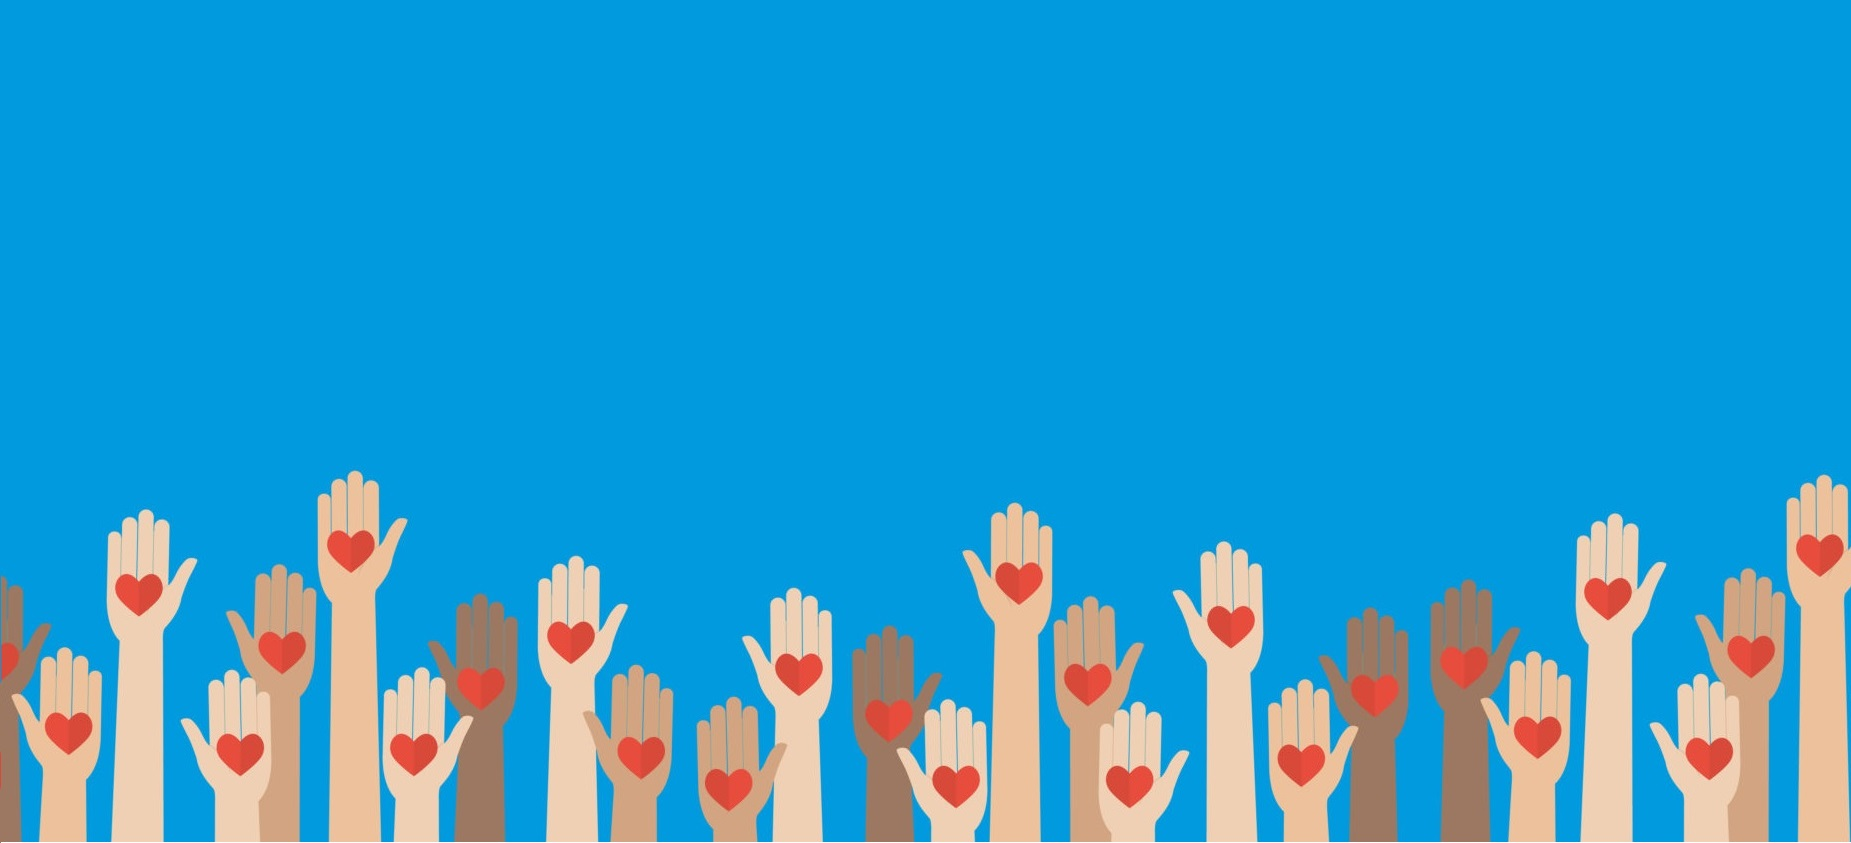
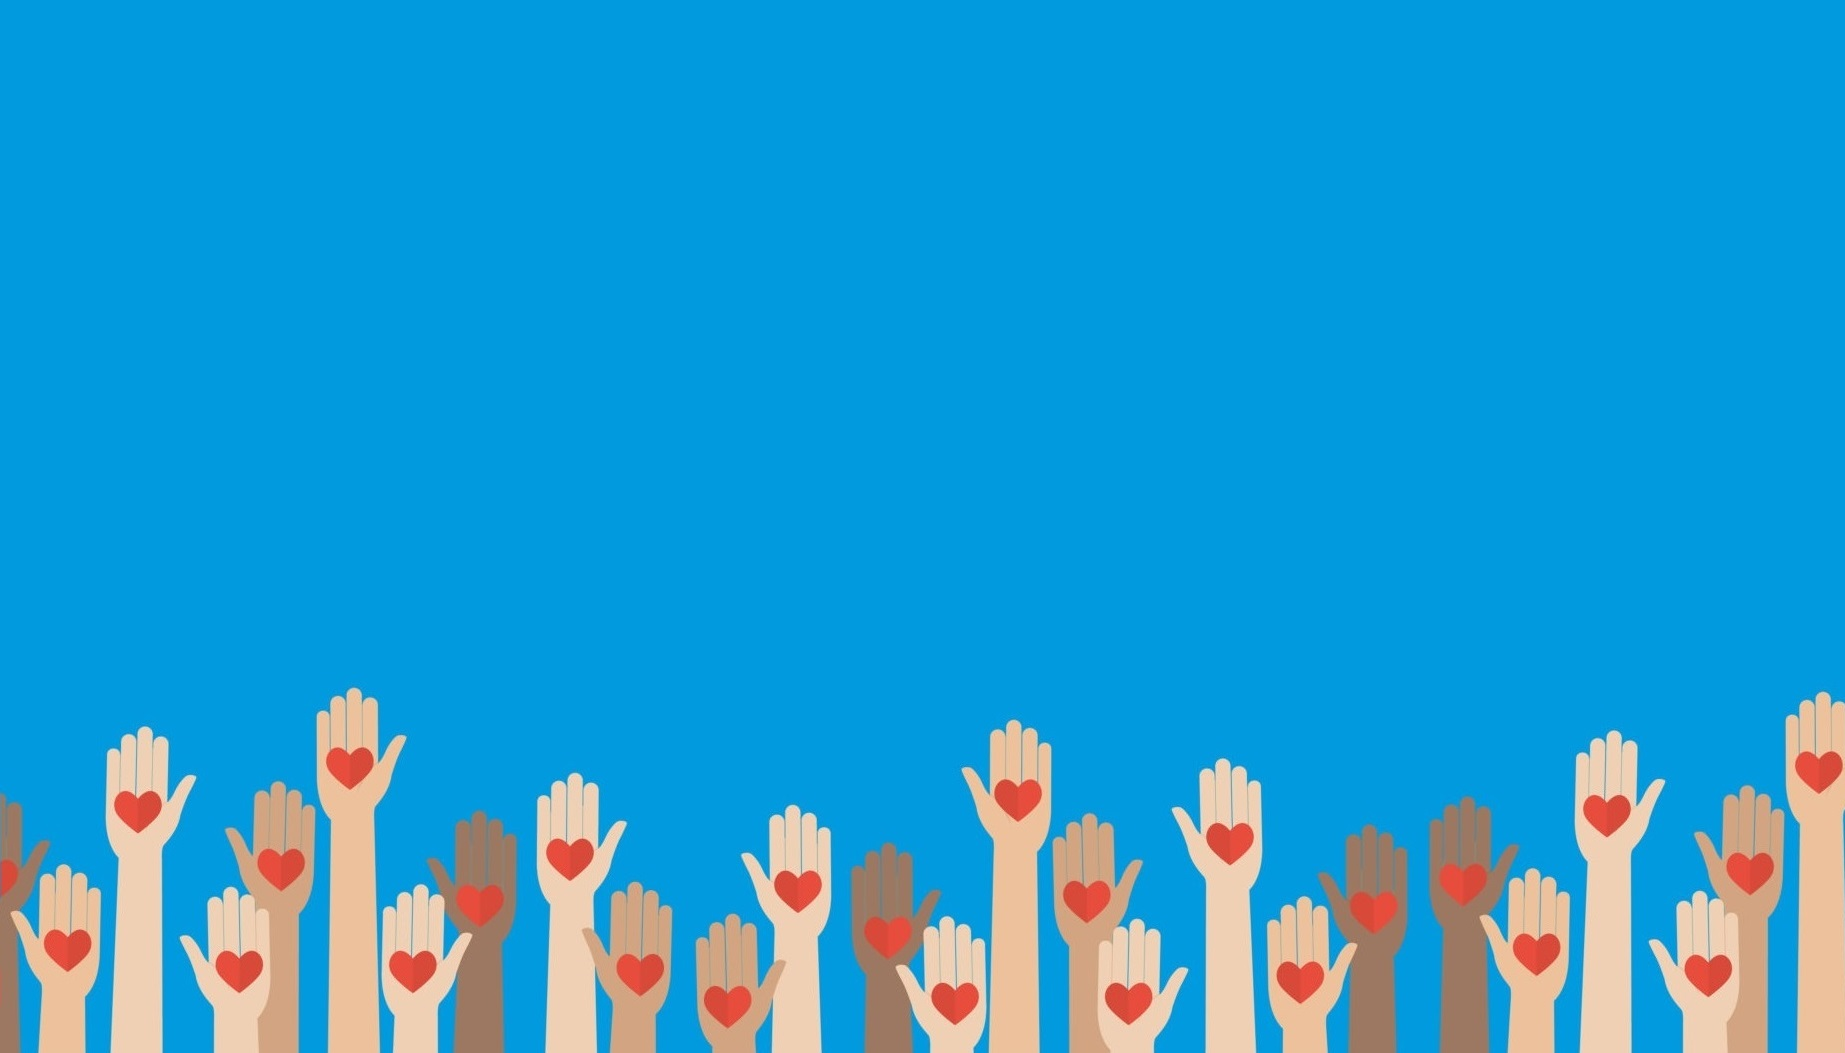
Small edits 21/20

Changed region(s): [[0.0, 0.5552, 1.0, 1.0], [0.0, 0.987, 0.1236, 1.0], [0.1545, 0.987, 0.2472, 1.0]]

diff --git a/Home.html b/Home.html
@@ -4,6 +4,15 @@
   <link rel="stylesheet" type="text/css" href="resources/css/stylesheet.css">
   <link rel="stylesheet" href="https://cdnjs.cloudflare.com/ajax/libs/font-awesome/4.7.0/css/font-awesome.min.css">
   <script src="resources/js/homeScript.js"></script>
+<style>
+body {
+	background-image: url("resources/images/volunteerbg.jpg");
+	background-repeat: no-repeat;
+  background-size: auto;
+}
+
+</style>
+
 
 </head>
 <div class="topnav" id="myTopnav">
@@ -23,8 +32,6 @@
   </a>
 </div>
 -->
-
-
 
   <!-- Sign up -->
   <div id="id01" class="modal">
@@ -101,13 +108,16 @@
             <input type="text" id="emailcheck" name="email" placeholder="Email" required>
           </div>
           <div class="col-100">
-            <input type="text" id="passwordcheck" name="password" placeholder="Password" required>
+            <input type="password" id="passwordcheck" name="password" placeholder="Password" required>
           </div>
-          <label>
-            <input type="checkbox" checked="checked" name="remember"> Remember me
-          </label>
-          <span class="psw">Forgot <a href="#">password?</a></span>
+          <!-- Remember checkbox          
+           <div id="id1">
+           <input type="checkbox" checked="checked" name="remember" > Remember me</div>
+          -->
+          <div id="id2">
+            <span class="psw">Forgot <a href="#">password?</a></span> </div>
           <div class="row">
+
             <input type="submit" value="Submit">
           </div>
         </form>
@@ -146,17 +156,17 @@
           <div class="col-100">
             <input type="text" id="DressCode" name="DressCode" placeholder="Dress Code">
           </div>
-          Volunteer Policy <br>
+          <h2 style="padding-left: 5px">Volunteer Policy</h2>
           <input type="radio" id="showup" name="VolunteerPolicy" value="showup">
-          <label for="male">Just show up</label><br>
+          <label for="radio1">Just show up</label><br>
           <input type="radio" id="contacthost" name="VolunteerPolicy" value="contacthost">
-          <label for="female">Contact Organizer before arriving</label><br>
-          Skills needed (Select all that apply) <br>
+          <label for="radio2">Contact Organizer before arriving</label><br>
+          <h2 style="padding-left: 5px">Skills needed (Select all that apply) </h2>
 
 
 
           <input type="checkbox" id="skill1" name="skill1" value="Childcare">
-          <label for="skill1">Childcaren</label><br>
+          <label for="skill1">Childcare</label><br>
           <input type="checkbox" id="skill2" name="skill1" value="Cleaning">
           <label for="skill3">Cleaning</label><br>
           <input type="checkbox" id="skill3" name="skill1" value="Clinical work">
@@ -198,7 +208,9 @@
 
 
 
-          Materials <br>
+          <h2>
+
+            Materials </h2>
           <div class="col-100">
             <input type="text" id="itemsNeeded" name="itemsNeeded" placeholder="Items Needed">
           </div>
@@ -206,12 +218,12 @@
             <input type="text" id="itemsVolunteerbrings" name="itemsVolunteerbrings" placeholder="Items volunteer should bring">
           </div>
 
-          Number of volunteer needed <br>
+          <h2>Number of volunteer needed</h2>
           <div class="col-100">
             <input type="number" id="quantity" name="quantity">
           </div>
 
-          Contact info <br>
+          <h2> Contact info </h2>
           <div class="col-100">
             <input type="text" id="Name" name="Name" placeholder="Name">
           </div>
@@ -235,16 +247,12 @@
 
 
 
-<img src="resources/images/volunteerbg.jpg" atl="colunteerbg" style="background-repeat:repeat">
 
- 
 <div class="searchwrap">
-   <div class="search">
-      <input type="textsearch" class="searchTerm" placeholder="Search for Keyword or Location">
-      <button type="submit" class="searchButton">
-        <i class="fa fa-search"></i>
-     </button>
-   </div>
+  <div class="search">
+    <input type="textsearch" class="searchTerm" placeholder="Search for Keyword or Location">
+    <button type="submit" class="searchButton">
+      <i class="fa fa-search"></i>
+    </button>
+  </div>
 </div>
-
-
